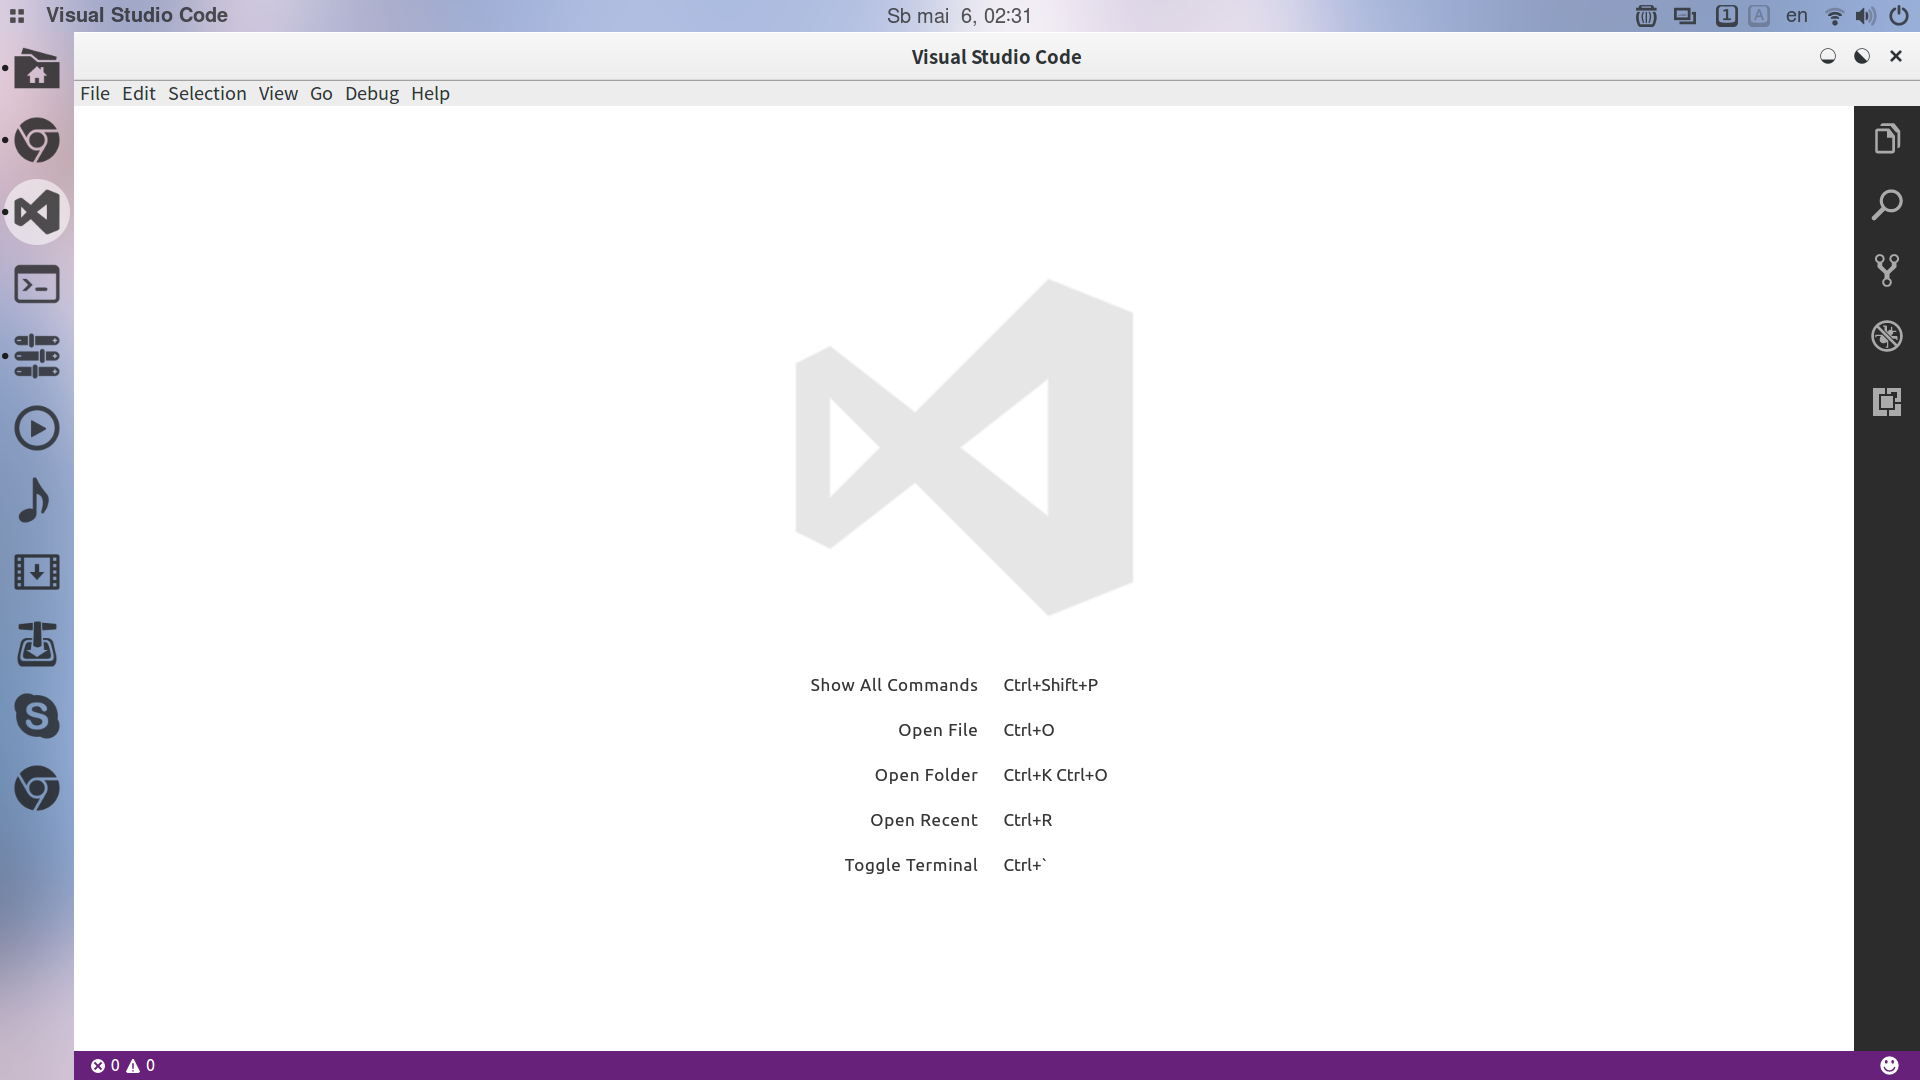
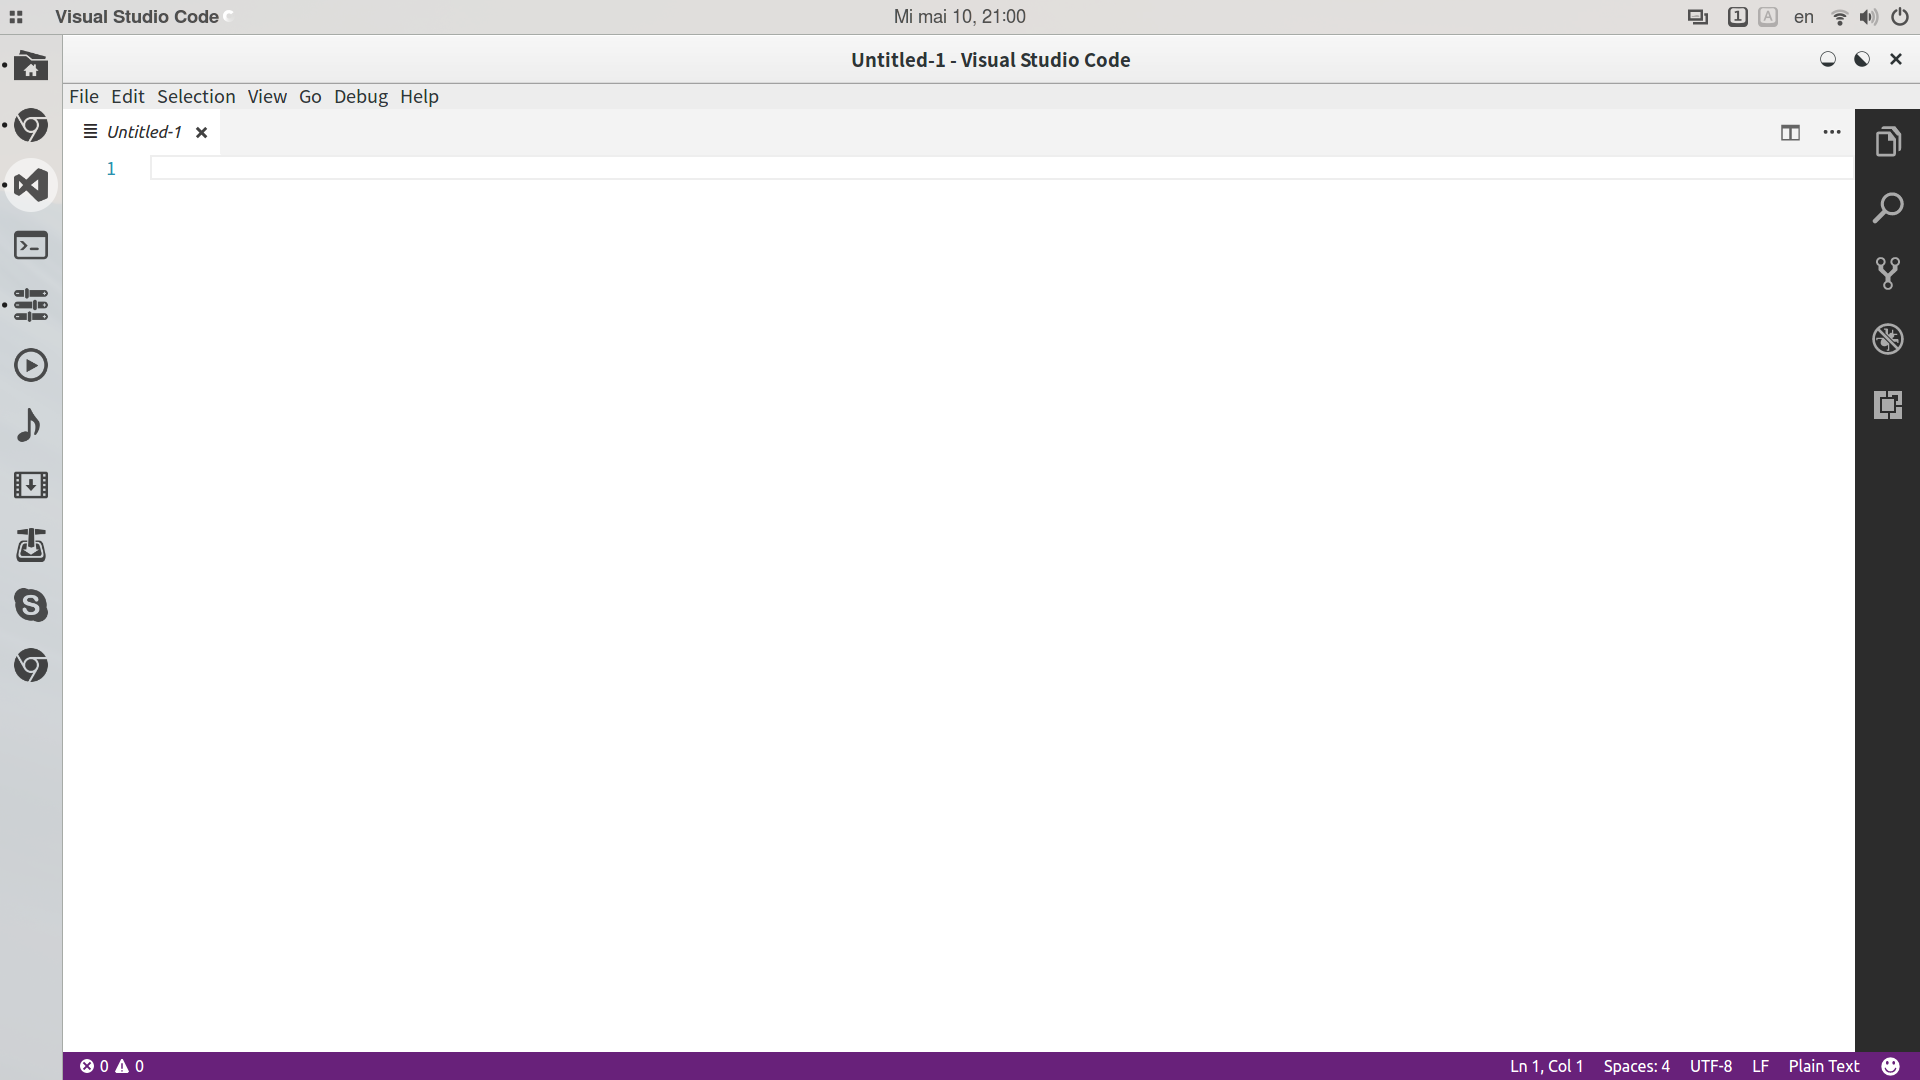
resturn to adwaita color scheme

diff --git a/.local/share/themes/slimAdwaita/gnome-shell/gnome-shell.css b/.local/share/themes/slimAdwaita/gnome-shell/gnome-shell.css
@@ -22,7 +22,7 @@
 /* default text style */
 stage {
     font-family: sfns display, product sans, helvetica, open sans, source sans pro, segoe ui, ubuntu, nokia pure text, lucida grande, cantarell, sans-serif;
-    font-size: 13pt;
+    font-size: 12pt;
     color: #C0B7B1;}
 
 /* links */
@@ -684,14 +684,14 @@ StEntry:insensitive,
 
 #panel {
     /*background-gradient-direction:none;*/
-    /*background-color: rgba(229,233,236,0.90);*/
-    
-    background-image: url("backgrounds/current.jpg");
-    background-position: 0 0;
+background-color: rgba(224,224,224,0.90);    
+    /*background-image: url("backgrounds/current.jpg");*/
+    /*background-position: 0 0;*/
+   	border: 1px solid rgba(167,171,167,1.0);
     border-top:0px;border-right:0px;border-left:0px;
-    font-weight: bold;
-    /*margin-bottom: 3px;*/
-    height: 32px;}
+    /*font-weight: bold;*/
+    /*margin-bottom: 1px;*/
+    height: 34px;}
 #panel:overview {
     background-color: transparent;
     border-color: transparent;

diff --git a/.local/share/gnome-shell/extensions/dash-to-dock@micxgx.gmail.com/stylesheet.css b/.local/share/gnome-shell/extensions/dash-to-dock@micxgx.gmail.com/stylesheet.css
@@ -111,11 +111,10 @@
 }
 
 #dashtodockContainer.dashtodock #dash {
-    /*background-color: rgba(229,233,236,0.90);*/
+    background-color: rgba(224,224,224,0.90);
 
-    background-image: url("backgrounds/current.jpg");
-    background-position: 0px -32px;
-    /*margin-right: 3px;*/
-	/*border: 1px solid rgba(48,48,48,0.75);*/
-}
+    /*background-image: url("backgrounds/current.jpg");*/
+    /*background-position: 0px -32px;*/
+    /*margin-right: 1px;*/
+border: 1px solid rgba(167,171,167,1.0);}
 
